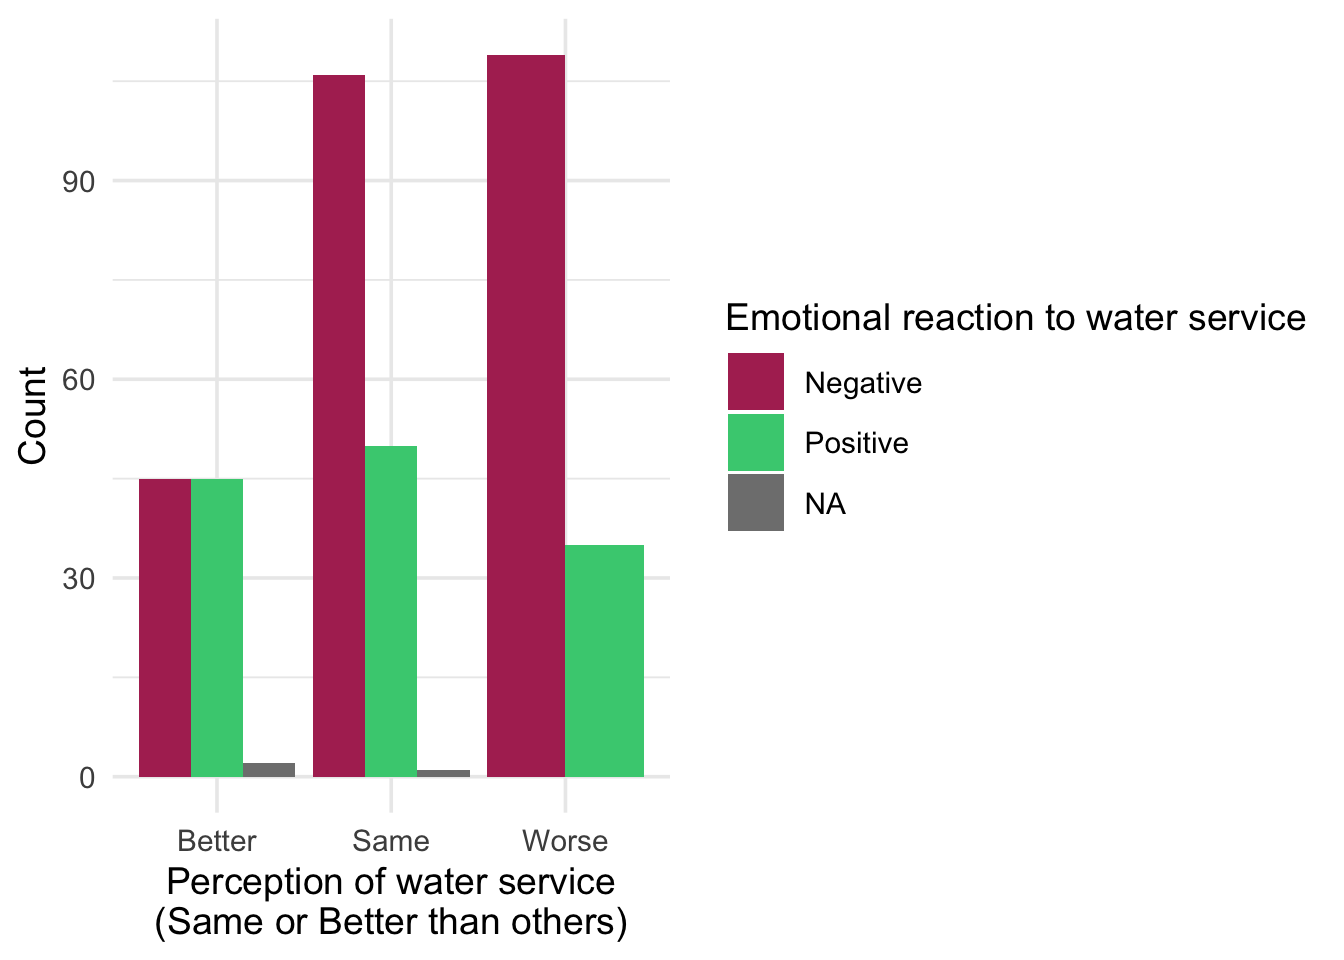
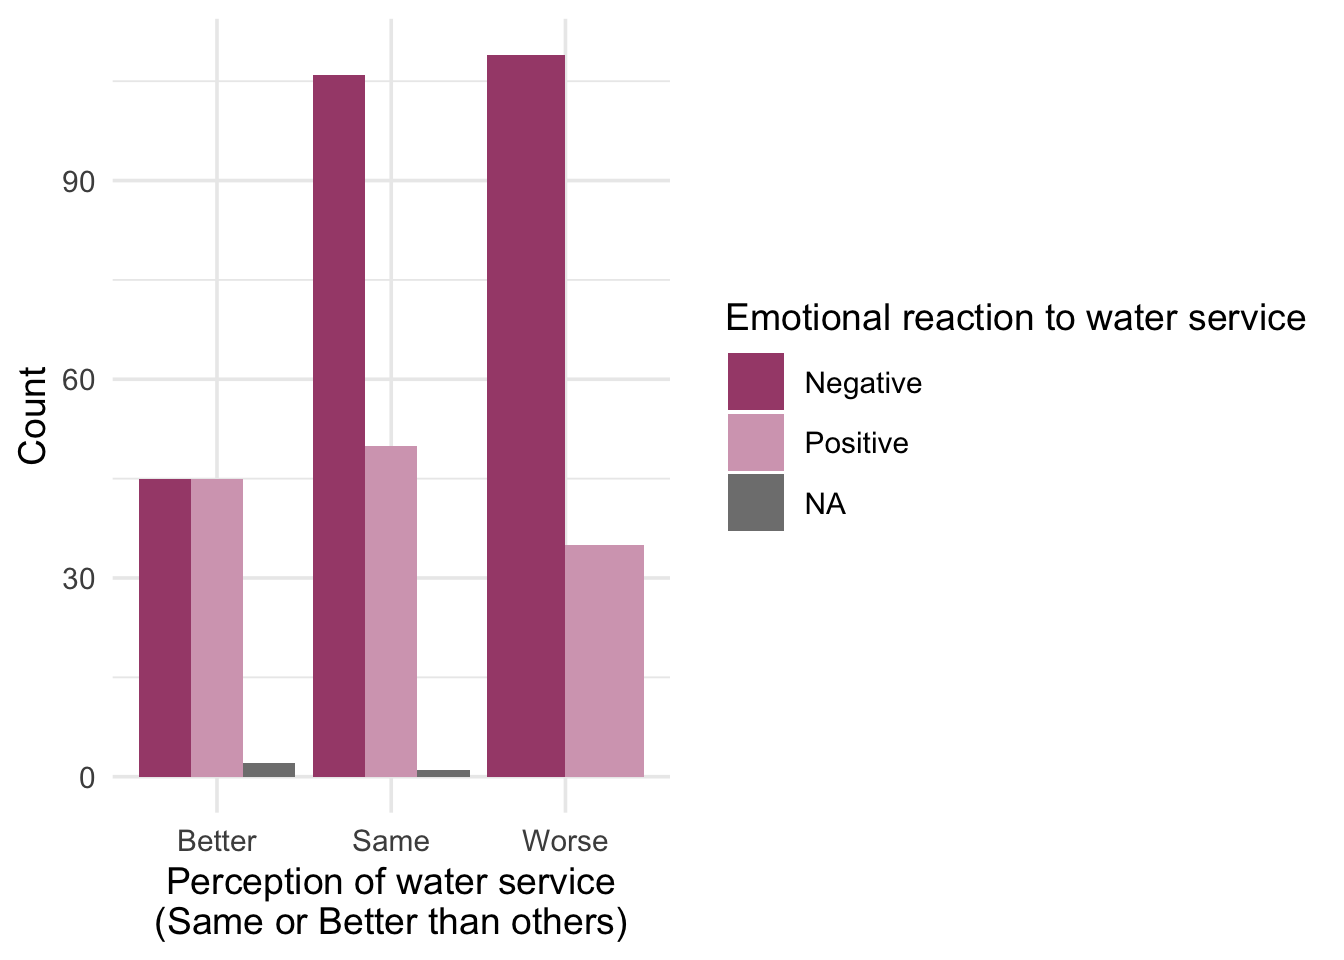
lauren upd

diff --git a/docs/UROP_Lauren.html b/docs/UROP_Lauren.html
@@ -382,7 +382,7 @@ aria-hidden="true"></span> </a>
 <div class="tab-content">
 <div id="summary" class="tab-pane fade in active">
 <p>
-<strong>Last updated:</strong> 2025-07-22
+<strong>Last updated:</strong> 2025-07-30
 </p>
 <p>
 <strong>Checks:</strong> <span
@@ -516,15 +516,15 @@ project makes it easier to run your code on other machines.</p>
 <div class="panel panel-default">
 <div class="panel-heading">
 <p class="panel-title">
-<a data-toggle="collapse" data-parent="#workflowr-checks" href="#strongRepositoryversionstrongahrefhttpsgithubcomlasisilabQUAILMextreeaf42e2ad3e28b54032623c1dd17450c646a17c48targetblankaf42e2aa">
+<a data-toggle="collapse" data-parent="#workflowr-checks" href="#strongRepositoryversionstrongahrefhttpsgithubcomlasisilabQUAILMextree3edf4ae244f167c33d13deb315f100ec888ba476targetblank3edf4aea">
 <span class="glyphicon glyphicon-ok text-success"
 aria-hidden="true"></span> <strong>Repository version:</strong>
-<a href="https://github.com/lasisilab/QUAIL-Mex/tree/af42e2ad3e28b54032623c1dd17450c646a17c48" target="_blank">af42e2a</a>
+<a href="https://github.com/lasisilab/QUAIL-Mex/tree/3edf4ae244f167c33d13deb315f100ec888ba476" target="_blank">3edf4ae</a>
 </a>
 </p>
 </div>
 <div
[2 lines of base64/hex data omitted]
 class="panel-collapse collapse">
 <div class="panel-body">
 <p>
@@ -534,7 +534,7 @@ reproducibility.
 </p>
 <p>
 The results in this page were generated with repository version
-<a href="https://github.com/lasisilab/QUAIL-Mex/tree/af42e2ad3e28b54032623c1dd17450c646a17c48" target="_blank">af42e2a</a>.
+<a href="https://github.com/lasisilab/QUAIL-Mex/tree/3edf4ae244f167c33d13deb315f100ec888ba476" target="_blank">3edf4ae</a>.
 See the <em>Past versions</em> tab to see a history of the changes made
 to the R Markdown and HTML files.
 </p>
@@ -558,18 +558,16 @@ Ignored files:
     Ignored:    analysis/.Rhistory
     Ignored:    analysis/HLTH_counts_by_SES.png
     Ignored:    analysis/Hrs_by_HWISE score.png
+    Ignored:    analysis/figure/
     Ignored:    analysis/odds_ratio_plot.png
     Ignored:    analysis/stacked_barplot.png
     Ignored:    code/.DS_Store
     Ignored:    data/.DS_Store
 
-Untracked files:
-    Untracked:  data/Q19.csv
-
 Unstaged changes:
-    Modified:   analysis/HBA2025_cleaning.Rmd
     Modified:   analysis/UROP_Lauren.Rmd
     Modified:   odds_ratio_plot.png
+    Modified:   violin_plot.png
 
 </code></pre>
 <p>
@@ -614,6 +612,40 @@ Message
 </tr>
 </thead>
 <tbody>
+<tr>
+<td>
+Rmd
+</td>
+<td>
+<a href="https://github.com/lasisilab/QUAIL-Mex/blob/3edf4ae244f167c33d13deb315f100ec888ba476/analysis/UROP_Lauren.Rmd" target="_blank">3edf4ae</a>
+</td>
+<td>
+Paloma
+</td>
+<td>
+2025-07-28
+</td>
+<td>
+upd lauren
+</td>
+</tr>
+<tr>
+<td>
+html
+</td>
+<td>
+<a href="https://rawcdn.githack.com/lasisilab/QUAIL-Mex/3edf4ae244f167c33d13deb315f100ec888ba476/docs/UROP_Lauren.html" target="_blank">3edf4ae</a>
+</td>
+<td>
+Paloma
+</td>
+<td>
+2025-07-28
+</td>
+<td>
+upd lauren
+</td>
+</tr>
 <tr>
 <td>
 Rmd
@@ -1041,11 +1073,13 @@ summary_stats</code></pre>
 <div id="emotions-and-compared-to-other-neighborhoods"
 class="section level1">
 <h1>Emotions and Compared to other neighborhoods</h1>
-<pre class="r"><code>ggplot(df, aes(x = MX26_EM_HHW_TYPE, 
+<pre class="r"><code># Save the plot as a high-resolution PNG for a poster
+ggsave(&quot;violin_plot.png&quot;, width = 5, height = 4, dpi = 200)
+ggplot(df, aes(x = MX26_EM_HHW_TYPE, 
                  y = HW_TOTAL, 
                  fill = MX26_EM_HHW_TYPE)) +
-  geom_jitter(aes(color = MX26_EM_HHW_TYPE), 
-                size = 1, width = 0.25) +  
+ # geom_jitter(aes(color = MX26_EM_HHW_TYPE), 
+  #              size = 1, width = 0.25) +  
   # Jitter adds individual data points
   geom_violin(alpha = 0.6, width = 1) + 
   geom_boxplot(outlier.shape = 1, alpha = 0.5, 
@@ -1055,14 +1089,50 @@ class="section level1">
        y = &quot;HWISE Score (points)&quot;) +
        theme(axis.text = element_text(size = 14),
         plot.title = element_text(size = 14, face = &quot;bold&quot;)) + 
-    theme(legend.position = &quot;none&quot;)</code></pre>
+    theme(legend.position = &quot;none&quot;) +
+    scale_fill_manual(values = c(&quot;Positive&quot; = &quot;#d5a6bd&quot;, &quot;NA&quot; = &quot;#ead1dc&quot;, &quot;Negative&quot; = &quot;#a64d79&quot;))  </code></pre>
 <pre><code>Warning: Removed 10 rows containing non-finite outside the scale range
 (`stat_ydensity()`).</code></pre>
 <pre><code>Warning: Removed 10 rows containing non-finite outside the scale range
 (`stat_boxplot()`).</code></pre>
-<pre><code>Warning: Removed 10 rows containing missing values or values outside the scale range
-(`geom_point()`).</code></pre>
 <p><img src="figure/UROP_Lauren.Rmd/violin%20plots-1.png" width="672" style="display: block; margin: auto;" /></p>
+<p>
+<button type="button" class="btn btn-default btn-xs btn-workflowr btn-workflowr-fig" data-toggle="collapse" data-target="#fig-no-spaces-violin-plots-1">
+Past versions of "violin plots-1.png"
+</button>
+</p>
+<div id="fig-no-spaces-violin-plots-1" class="collapse">
+<div class="table-responsive">
+<table class="table table-condensed table-hover">
+<thead>
+<tr>
+<th>
+Version
+</th>
+<th>
+Author
+</th>
+<th>
+Date
+</th>
+</tr>
+</thead>
+<tbody>
+<tr>
+<td>
+<a href="https://github.com/lasisilab/QUAIL-Mex/blob/3edf4ae244f167c33d13deb315f100ec888ba476/docs/figure/UROP_Lauren.Rmd/violin plots-1.png" target="_blank">3edf4ae</a>
+</td>
+<td>
+Paloma
+</td>
+<td>
+2025-07-28
+</td>
+</tr>
+</tbody>
+</table>
+</div>
+</div>
 <pre class="r"><code># Option 1
 ggplot(df, aes(x = MX26_EM_HHW_TYPE, group = MX28_WQ_COMP, fill = factor(MX28_WQ_COMP))) +
   geom_bar(position = &quot;dodge&quot;) +
@@ -1075,6 +1145,43 @@ ggplot(df, aes(x = MX26_EM_HHW_TYPE, group = MX28_WQ_COMP, fill = factor(MX28_WQ
   scale_fill_manual(values = c(&quot;Better&quot; = &quot;seagreen3&quot;, &quot;Same&quot; = &quot;lightblue2&quot;, &quot;Worse&quot; = &quot;maroon&quot;))  + 
  theme(legend.key.size = unit(0.8, &#39;cm&#39;))</code></pre>
 <p><img src="figure/UROP_Lauren.Rmd/barplots-1.png" width="672" style="display: block; margin: auto;" /></p>
+<p>
+<button type="button" class="btn btn-default btn-xs btn-workflowr btn-workflowr-fig" data-toggle="collapse" data-target="#fig-barplots-1">
+Past versions of barplots-1.png
+</button>
+</p>
+<div id="fig-barplots-1" class="collapse">
+<div class="table-responsive">
+<table class="table table-condensed table-hover">
+<thead>
+<tr>
+<th>
+Version
+</th>
+<th>
+Author
+</th>
+<th>
+Date
+</th>
+</tr>
+</thead>
+<tbody>
+<tr>
+<td>
+<a href="https://github.com/lasisilab/QUAIL-Mex/blob/3edf4ae244f167c33d13deb315f100ec888ba476/docs/figure/UROP_Lauren.Rmd/barplots-1.png" target="_blank">3edf4ae</a>
+</td>
+<td>
+Paloma
+</td>
+<td>
+2025-07-28
+</td>
+</tr>
+</tbody>
+</table>
+</div>
+</div>
 <pre class="r"><code># Option 2
 ggplot(df, aes(x = MX28_WQ_COMP, group = MX26_EM_HHW_TYPE, fill = factor(MX26_EM_HHW_TYPE))) +
   geom_bar(position = &quot;dodge&quot;) +
@@ -1084,9 +1191,46 @@ ggplot(df, aes(x = MX28_WQ_COMP, group = MX26_EM_HHW_TYPE, fill = factor(MX26_EM
     fill = &quot;Emotional reaction to water service&quot;
   ) +
   theme_minimal(base_size = 14) +
-  scale_fill_manual(values = c(&quot;Positive&quot; = &quot;seagreen3&quot;, &quot;NA&quot; = &quot;lightblue2&quot;, &quot;Negative&quot; = &quot;maroon&quot;))  + 
+  scale_fill_manual(values = c(&quot;Positive&quot; = &quot;#d5a6bd&quot;, &quot;NA&quot; = &quot;#ead1dc&quot;, &quot;Negative&quot; = &quot;#a64d79&quot;))  + 
  theme(legend.key.size = unit(0.8, &#39;cm&#39;))</code></pre>
 <p><img src="figure/UROP_Lauren.Rmd/barplots-2.png" width="672" style="display: block; margin: auto;" /></p>
+<p>
+<button type="button" class="btn btn-default btn-xs btn-workflowr btn-workflowr-fig" data-toggle="collapse" data-target="#fig-barplots-2">
+Past versions of barplots-2.png
+</button>
+</p>
+<div id="fig-barplots-2" class="collapse">
+<div class="table-responsive">
+<table class="table table-condensed table-hover">
+<thead>
+<tr>
+<th>
+Version
+</th>
+<th>
+Author
+</th>
+<th>
+Date
+</th>
+</tr>
+</thead>
+<tbody>
+<tr>
+<td>
+<a href="https://github.com/lasisilab/QUAIL-Mex/blob/3edf4ae244f167c33d13deb315f100ec888ba476/docs/figure/UROP_Lauren.Rmd/barplots-2.png" target="_blank">3edf4ae</a>
+</td>
+<td>
+Paloma
+</td>
+<td>
+2025-07-28
+</td>
+</tr>
+</tbody>
+</table>
+</div>
+</div>
 <pre class="r"><code># Option 3
 df %&gt;%
   count(MX28_WQ_COMP, MX26_EM_HHW_TYPE) %&gt;%
@@ -1101,14 +1245,51 @@ df %&gt;%
     fill = &quot;Emotion Type&quot;
   ) +
   theme_minimal() + 
-  scale_fill_manual(values = c(&quot;Positive&quot; = &quot;seagreen3&quot;, &quot;NA&quot; = &quot;lightblue2&quot;, &quot;Negative&quot; = &quot;maroon&quot;)) </code></pre>
+  scale_fill_manual(values = c(&quot;Positive&quot; = &quot;#d5a6bd&quot;, &quot;NA&quot; = &quot;#ead1dc&quot;, &quot;Negative&quot; = &quot;#a64d79&quot;))  </code></pre>
 <p><img src="figure/UROP_Lauren.Rmd/barplots-3.png" width="672" style="display: block; margin: auto;" /></p>
+<p>
+<button type="button" class="btn btn-default btn-xs btn-workflowr btn-workflowr-fig" data-toggle="collapse" data-target="#fig-barplots-3">
+Past versions of barplots-3.png
+</button>
+</p>
+<div id="fig-barplots-3" class="collapse">
+<div class="table-responsive">
+<table class="table table-condensed table-hover">
+<thead>
+<tr>
+<th>
+Version
+</th>
+<th>
+Author
+</th>
+<th>
+Date
+</th>
+</tr>
+</thead>
+<tbody>
+<tr>
+<td>
+<a href="https://github.com/lasisilab/QUAIL-Mex/blob/3edf4ae244f167c33d13deb315f100ec888ba476/docs/figure/UROP_Lauren.Rmd/barplots-3.png" target="_blank">3edf4ae</a>
+</td>
+<td>
+Paloma
+</td>
+<td>
+2025-07-28
+</td>
+</tr>
+</tbody>
+</table>
+</div>
+</div>
 </div>
 <div id="q19" class="section level1">
 <h1>Q19</h1>
 </div>
-<div id="regression" class="section level1">
-<h1>Regression</h1>
+<div id="regression-1" class="section level1">
+<h1>Regression 1</h1>
 <pre class="r"><code>data &lt;- merged_df
 
 # Ensure it&#39;s properly coded as 0 or 1
@@ -1508,11 +1689,11 @@ MX28_WQ_COMP MX28_WQ_COMP 0.5920384 0.3862853 0.8931682</code></pre>
                                              &quot;Time spent\nwater management&quot;))
 
 # Save the plot as a high-resolution PNG for a poster
-ggsave(&quot;odds_ratio_plot.png&quot;, width = 10, height = 5, dpi = 300)
+ggsave(&quot;odds_ratio_plot.png&quot;, width = 7, height = 5, dpi = 200)
 
 ggplot(odds_df, aes(x = reorder(Predictor, OR), y = OR)) +
-  geom_errorbar(aes(ymin = Lower_CI, ymax = Upper_CI), width = 0.2, color = &quot;#1f78b4&quot;) +
-  geom_point(size = 4, color = &quot;#ff7f00&quot;) +  # Points for ORs
+  geom_errorbar(aes(ymin = Lower_CI, ymax = Upper_CI), width = 0.2, color = &quot;#d5a6bd&quot;) +
+  geom_point(size = 4, color = &quot;#a64d79&quot;) +  # Points for ORs
   geom_hline(yintercept = 1, linetype = &quot;dashed&quot;, color = &quot;#fdbf6f&quot;) +  # Reference Line at OR = 1
   coord_flip() +  # Flip for better readability
   labs(title = &quot;Odds ratios of having \na negative emotional response&quot;,
@@ -1527,6 +1708,43 @@ ggplot(odds_df, aes(x = reorder(Predictor, OR), y = OR)) +
     plot.title = element_text(size = 18, face = &quot;bold&quot;, hjust = 0.5)  # Title (if any)
   )</code></pre>
 <p><img src="figure/UROP_Lauren.Rmd/odds%20ratio-1.png" width="672" style="display: block; margin: auto;" /></p>
+<p>
+<button type="button" class="btn btn-default btn-xs btn-workflowr btn-workflowr-fig" data-toggle="collapse" data-target="#fig-no-spaces-odds-ratio-1">
+Past versions of "odds ratio-1.png"
+</button>
+</p>
+<div id="fig-no-spaces-odds-ratio-1" class="collapse">
+<div class="table-responsive">
+<table class="table table-condensed table-hover">
+<thead>
+<tr>
+<th>
+Version
+</th>
+<th>
+Author
+</th>
+<th>
+Date
+</th>
+</tr>
+</thead>
+<tbody>
+<tr>
+<td>
+<a href="https://github.com/lasisilab/QUAIL-Mex/blob/3edf4ae244f167c33d13deb315f100ec888ba476/docs/figure/UROP_Lauren.Rmd/odds ratio-1.png" target="_blank">3edf4ae</a>
+</td>
+<td>
+Paloma
+</td>
+<td>
+2025-07-28
+</td>
+</tr>
+</tbody>
+</table>
+</div>
+</div>
 <br>
 <p>
 <button type="button" class="btn btn-default btn-workflowr btn-workflowr-sessioninfo" data-toggle="collapse" data-target="#workflowr-sessioninfo" style="display: block;">
